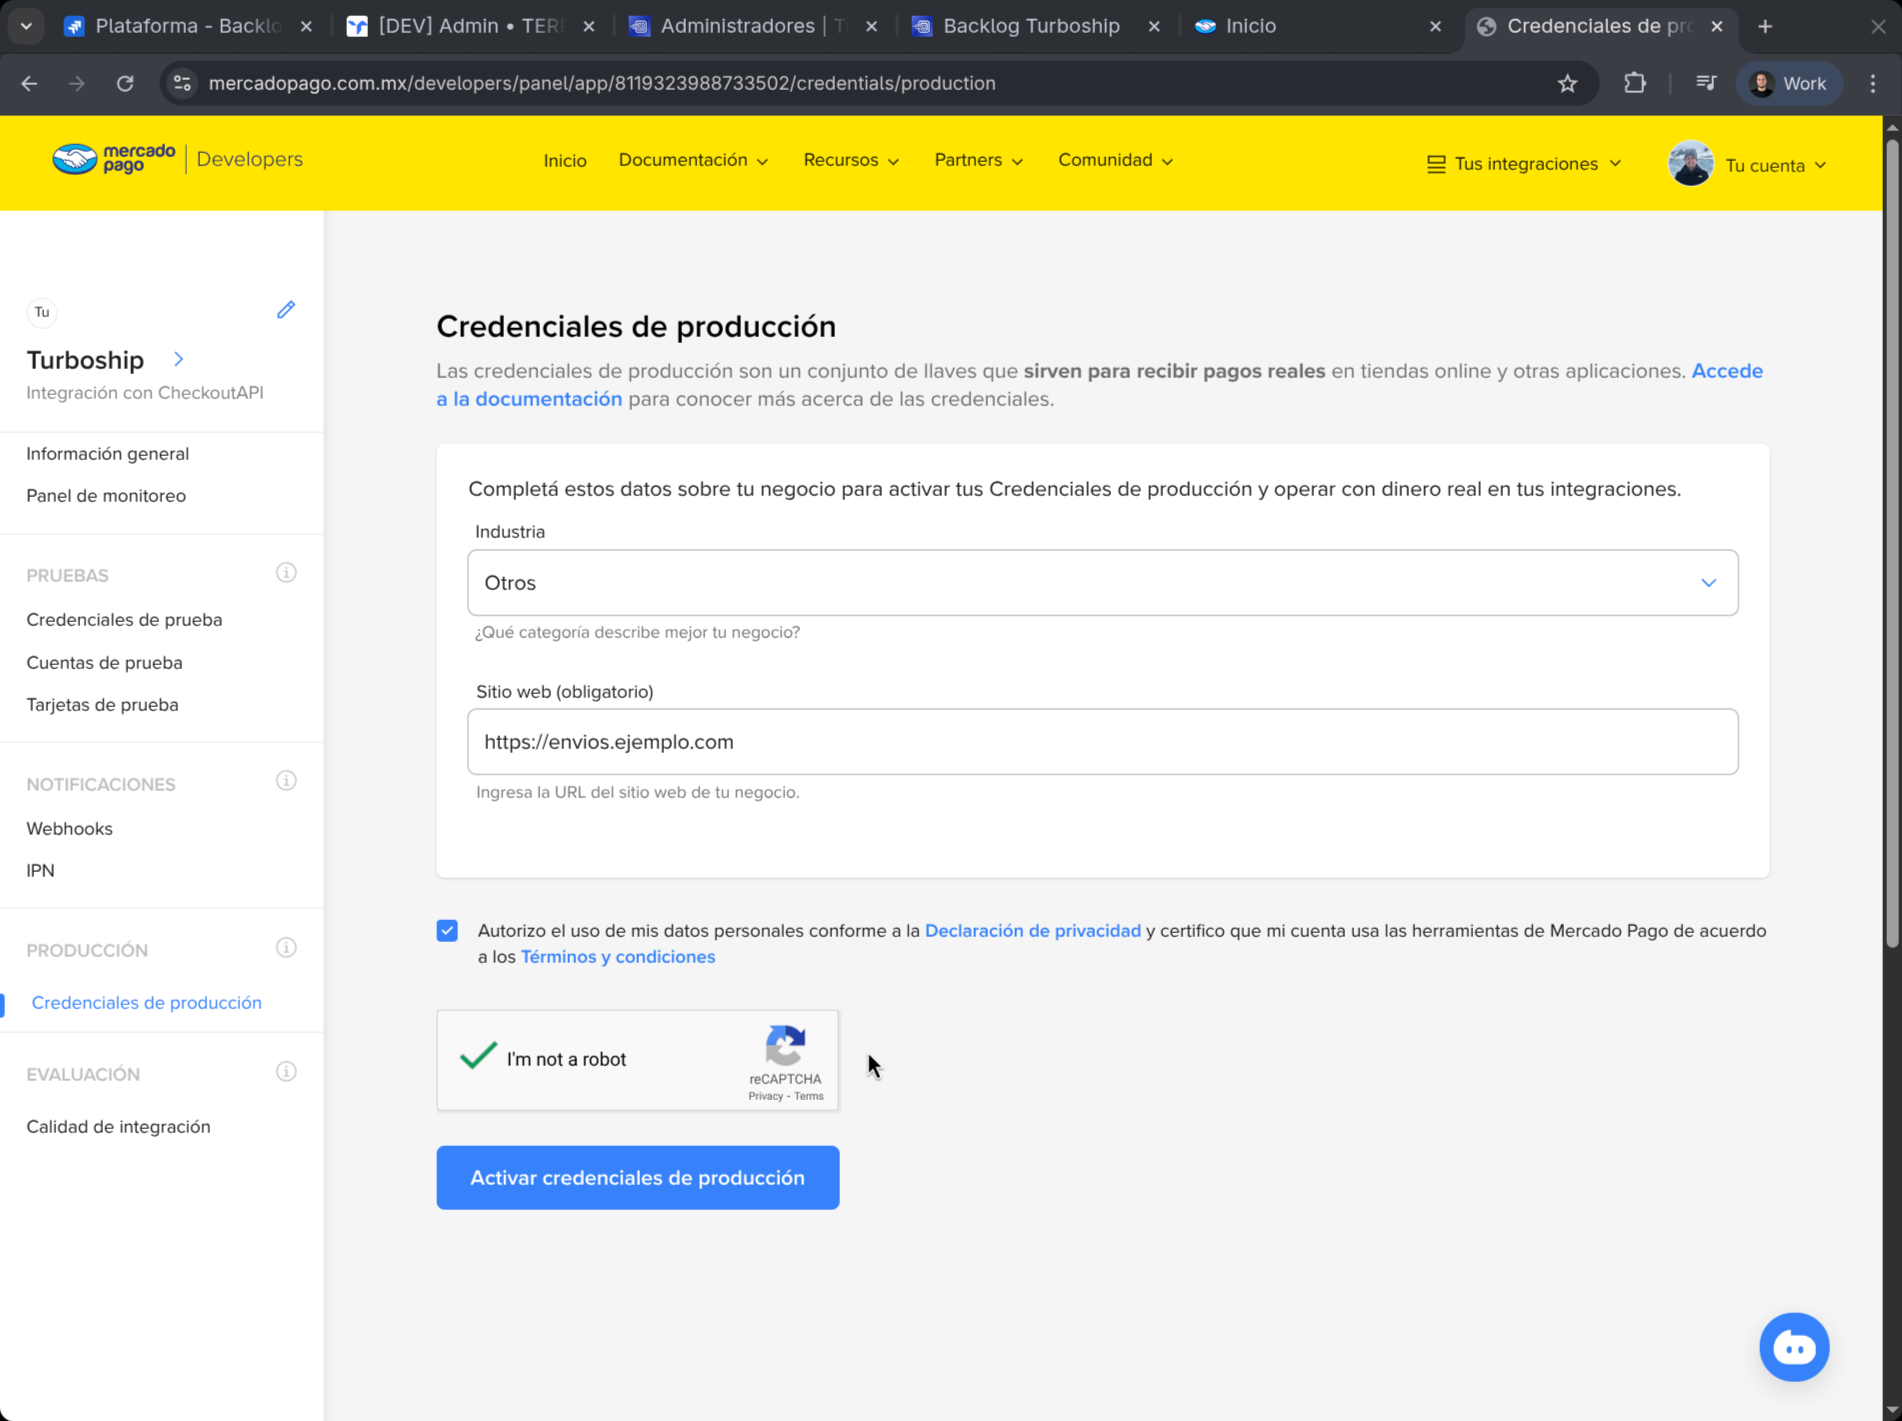
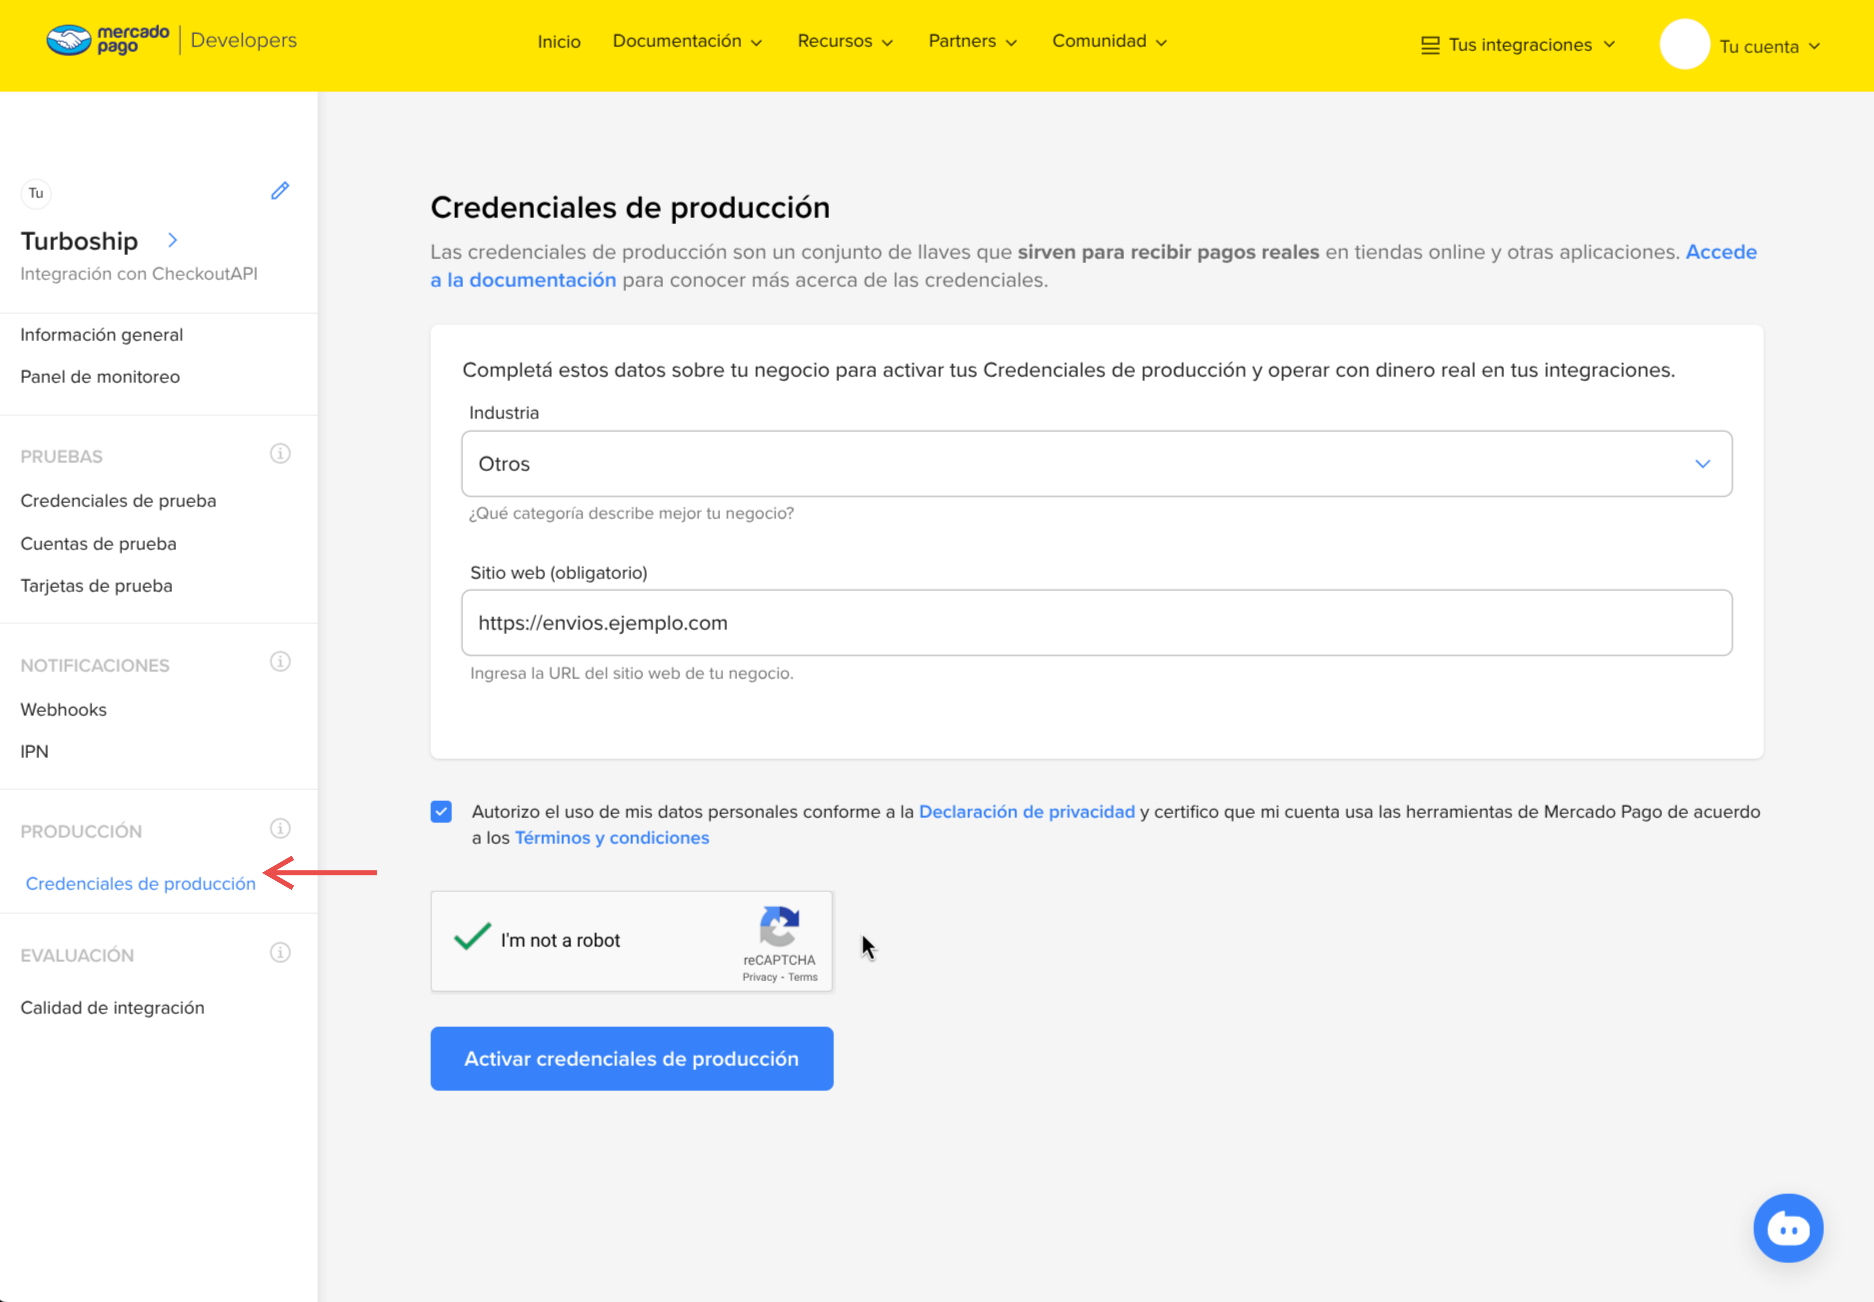
docs: update Mercado Pago integration guide

diff --git a/docs/integraciones/mercadopago/index.md b/docs/integraciones/mercadopago/index.md
@@ -1,62 +1,78 @@
+import { AlertTriangle } from 'lucide-react';
+
 # Mercado Pago
 
-Esta guía explica cómo crear tu app en Mercado Pago, activar credenciales de producción, copiar tu Access Token y configurar el Webhook Secret.
+Esta guía describe cómo conectar Mercado Pago con Turboship para automatizar los cobros a tus clientes y la acreditación de su saldo. Mercado Pago aplica comisiones que varían según el método de pago elegido; consulta el detalle aquí: https://www.mercadopago.com.mx/herramientas-para-vender/check-out#benefits-checkout.
+
+## Prerrequisitos
+Antes de iniciar, asegúrate de tener una cuenta de Mercado Pago tipo empresa, activada y con al menos 1 depósito recibido.
+
+Si aún no tienes cuenta, regístrate aquí: https://www.mercadopago.com.mx/hub/registration/splitter?origin=router.
+
+![Cuenta de Mercado Pago tipo empresa](mercadopago-cuenta-empresa-v2.png)
 
 ## 1) Crea una aplicación
-En el panel de Developers, inicia el asistente y escribe el nombre de tu app.
+Acceda al portal de desarrolladores utilizando el siguiente link para crear una nueva aplicación.
+
+Enlace directo: https://www.mercadopago.com.mx/developers/panel/app/create-app
+
+Nombre de la aplicación: **Turboship**
 
 ![Crear app con nombre](create-app-name.png)
 
-## 2) Elige el tipo de pago
-Selecciona **Pagos online** (si vas a cobrar en una tienda en línea).
-
-![Elegir tipo de pago](choose-payment-type.png)
-
-## 3) Define cómo hiciste la tienda
-Elige **Con un desarrollo propio** (u otra opción si aplica) y continúa.
+## 2) Define el tipo de pago y tienda
+Selecciona **Pagos online** y **Con un desarrollo propio**, luego continúa.
 
 ![Elegir pagos online y tipo de tienda](choose-online-payment-and-store-type.png)
 
-## 4) Selecciona Checkout API
+## 3) Selecciona Checkout API
 En la sección de Checkouts, selecciona **Checkout API**.
 
 ![Elegir Checkout API](choose-checkout-api.png)
 
-## 5) Elige API de Pagos
+## 4) Elige API de Pagos
 Selecciona **API de Pagos** y continúa.
 
 ![Elegir API de Pagos](choose-payments-api.png)
 
-## 6) Confirma las opciones
+## 5) Confirma las opciones
 Revisa la configuración, acepta términos y confirma la creación.
 
 ![Confirmar opciones](confirm-app-options-checked.png)
 
-## 7) Abre el detalle de la app
+## 6) Abre el detalle de la app
 Ya creada la app, verás el panel con sus detalles.
 
 ![Detalle de la aplicación](app-details-page.png)
 
-## 8) Activa credenciales de producción (si aplica)
-Completa los datos del negocio, acepta el aviso y activa.
+## 7) Activa credenciales de producción
+En la barra lateral, haz click en **Credenciales de producción**. En industria selecciona **Otros**, coloca la URL de tu plataforma de envíos, acepta los términos y condiciones y activa las credenciales de producción.
 
 ![Activar credenciales de producción](activate-production-credentials.png)
 
-## 9) Copia tu Access Token de producción
-En **Credenciales de producción**, copia el **Access Token**.
+## 8) Copia tu Access Token de producción
+En **Credenciales de producción**, copia el **Access Token** y guárdalo en un lugar seguro para ingresarlo posteriormente en la plataforma.
 
 ![Access Token de producción](production-credentials-access-token.png)
 
-## 10) Entra a Webhooks
-Ve a **Notificaciones > Webhooks** y abre la configuración.
+## 9) Entra a Webhooks
+En la barra lateral, entra a **Notificaciones > Webhooks** y luego haz clic en **Configurar notificaciones**.
 
 ![Pantalla de webhooks](webhooks-overview-page.png)
 
-## 11) Configura y guarda los webhooks
-Selecciona **Modo productivo**, pega tu URL, elige los eventos necesarios, guarda la configuración y copia la **Clave secreta** del webhook.
+## 10) Configura y guarda los webhooks
+Selecciona **Modo productivo**. En la URL, usa la URL de tu plataforma seguida de `/api/webhooks/mercadopago`, como aparece en la imagen.
+
+<div style={{ display: 'flex', alignItems: 'center', gap: '0.5rem', margin: 0, padding: 0 }}>
+  <AlertTriangle color="#f59e0b" size="1em" aria-hidden="true" style={{ display: 'block', flexShrink: 0 }} />
+  <p style={{ margin: 0, padding: 0 }}>Es muy importante que esta URL sea correcta.</p>
+</div>
+
+En **Eventos recomendados**, selecciona **Pagos** y guarda la configuración.
 
 ![Webhooks configurados y clave secreta](webhooks-configured-with-url-and-secret.png)
 
-## Notas de seguridad
-- No compartas tu **Access Token** ni la **Clave secreta** del webhook en repositorios públicos.
-- Guarda ambos valores en un secret manager o variables de entorno.
+## 11) Copia la clave secreta del webhook
+Después de guardar, copia la **Clave secreta** del webhook y guárdala en un lugar seguro para ingresarla posteriormente en la plataforma.
+
+![Clave secreta del webhook](webhook-configured-result.png)
